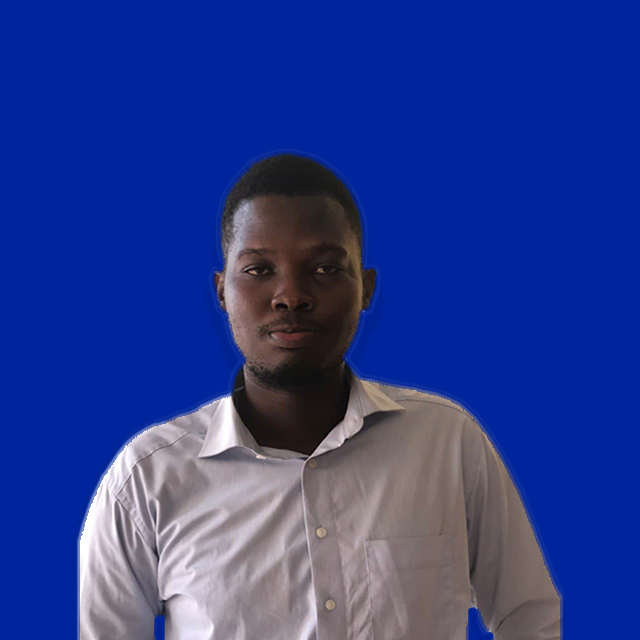
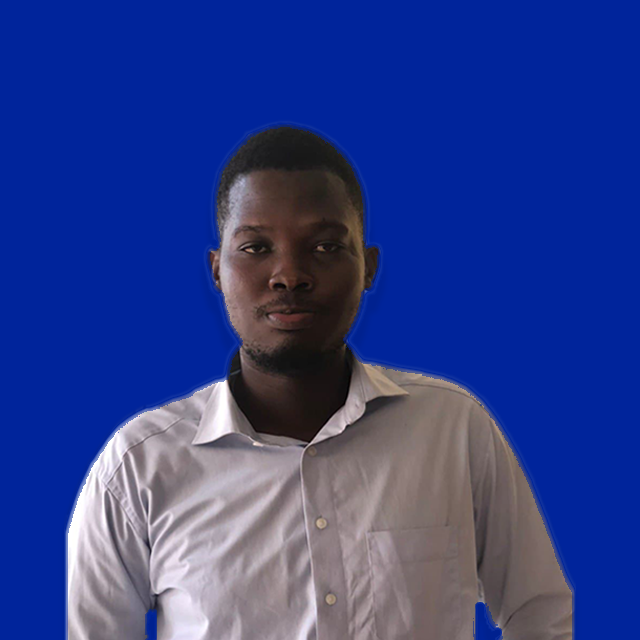
sizes

Changed region(s): [[0.0938, 0.1875, 0.9062, 1.0], [0.5312, 0.8125, 0.625, 0.9062], [0.5625, 0.9688, 0.5938, 1.0]]

diff --git a/index.html b/index.html
@@ -605,7 +605,7 @@
                 <div class="col-lg-4 col-md-6"  data-aos="zoom-in" data-aos-delay="100">
                   <div class="team tilt" style="will-change: transform; transform: perspective(1000px) rotateX(0deg) rotateY(0deg) scale3d(1, 1, 1);">
                     <div class="team-avatar">
-                      <img class="w-100" src="assets/img/team/charlotte profile.webp" alt="">
+                      <img class="w-100" src="assets/img/team/charlotte profile.png" alt="">
                     </div>
                     <div class="team-content">
                       <div class=" team-content-inner">
@@ -707,7 +707,7 @@
                 <div class="col-lg-4 col-md-6"  data-aos="zoom-in" data-aos-delay="100">
                   <div class="team tilt" style="will-change: transform; transform: perspective(1000px) rotateX(0deg) rotateY(0deg) scale3d(1, 1, 1);">
                     <div class="team-avatar">
-                     <img class="w-100" src="assets/img/team/killa2 profile.webp" alt="">
+                     <img class="w-100" src="assets/img/team/killa2 profile.png" alt="">
                     </div>
                     <div class="team-content">
                       <div class=" team-content-inner">
